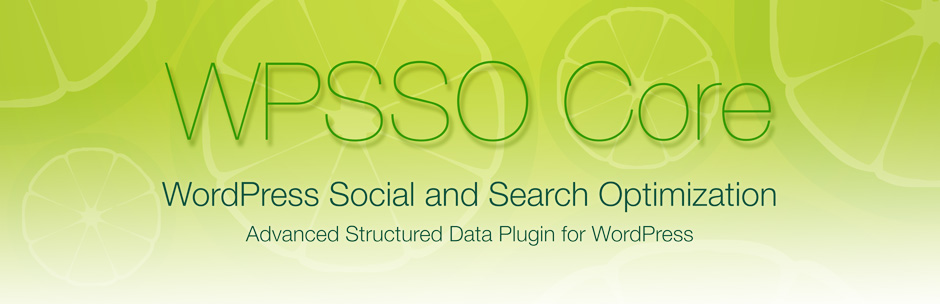
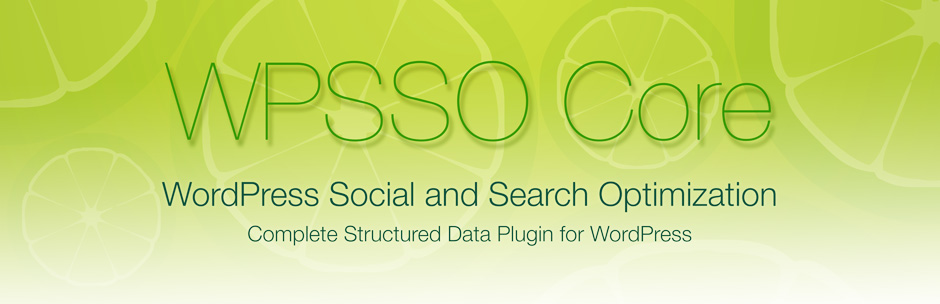
non-essential support files (documentation and assets)

Changed region(s): [[0.2468, 0.7401, 0.7404, 0.7993]]

diff --git a/index.html b/index.html
@@ -25,7 +25,7 @@
         </ul>
       </header>
       <section>
-<h1>WPSSO Core</h1><h3>Advanced Structured Data - Meta Tags, oEmbed, REST API, Rich Pins, Rich Results, Schema JSON-LD, XML</h3>
+<h1>WPSSO Core</h1><h3>Complete Structured Data - Meta Tags, oEmbed, REST API, Rich Pins, Rich Results, Schema JSON-LD, XML</h3>
 
 <table>
 <tr><th align="right" valign="top" nowrap>Plugin Name</th><td>WPSSO Core</td></tr>
@@ -42,7 +42,7 @@
 
 <h2>Description</h2>
 
-<h3 class="top">Advanced Structured Data Plugin for WordPress</h3>
+<h3 class="top">Complete Structured Data Plugin for WordPress</h3>
 
 <!-- about -->
 
